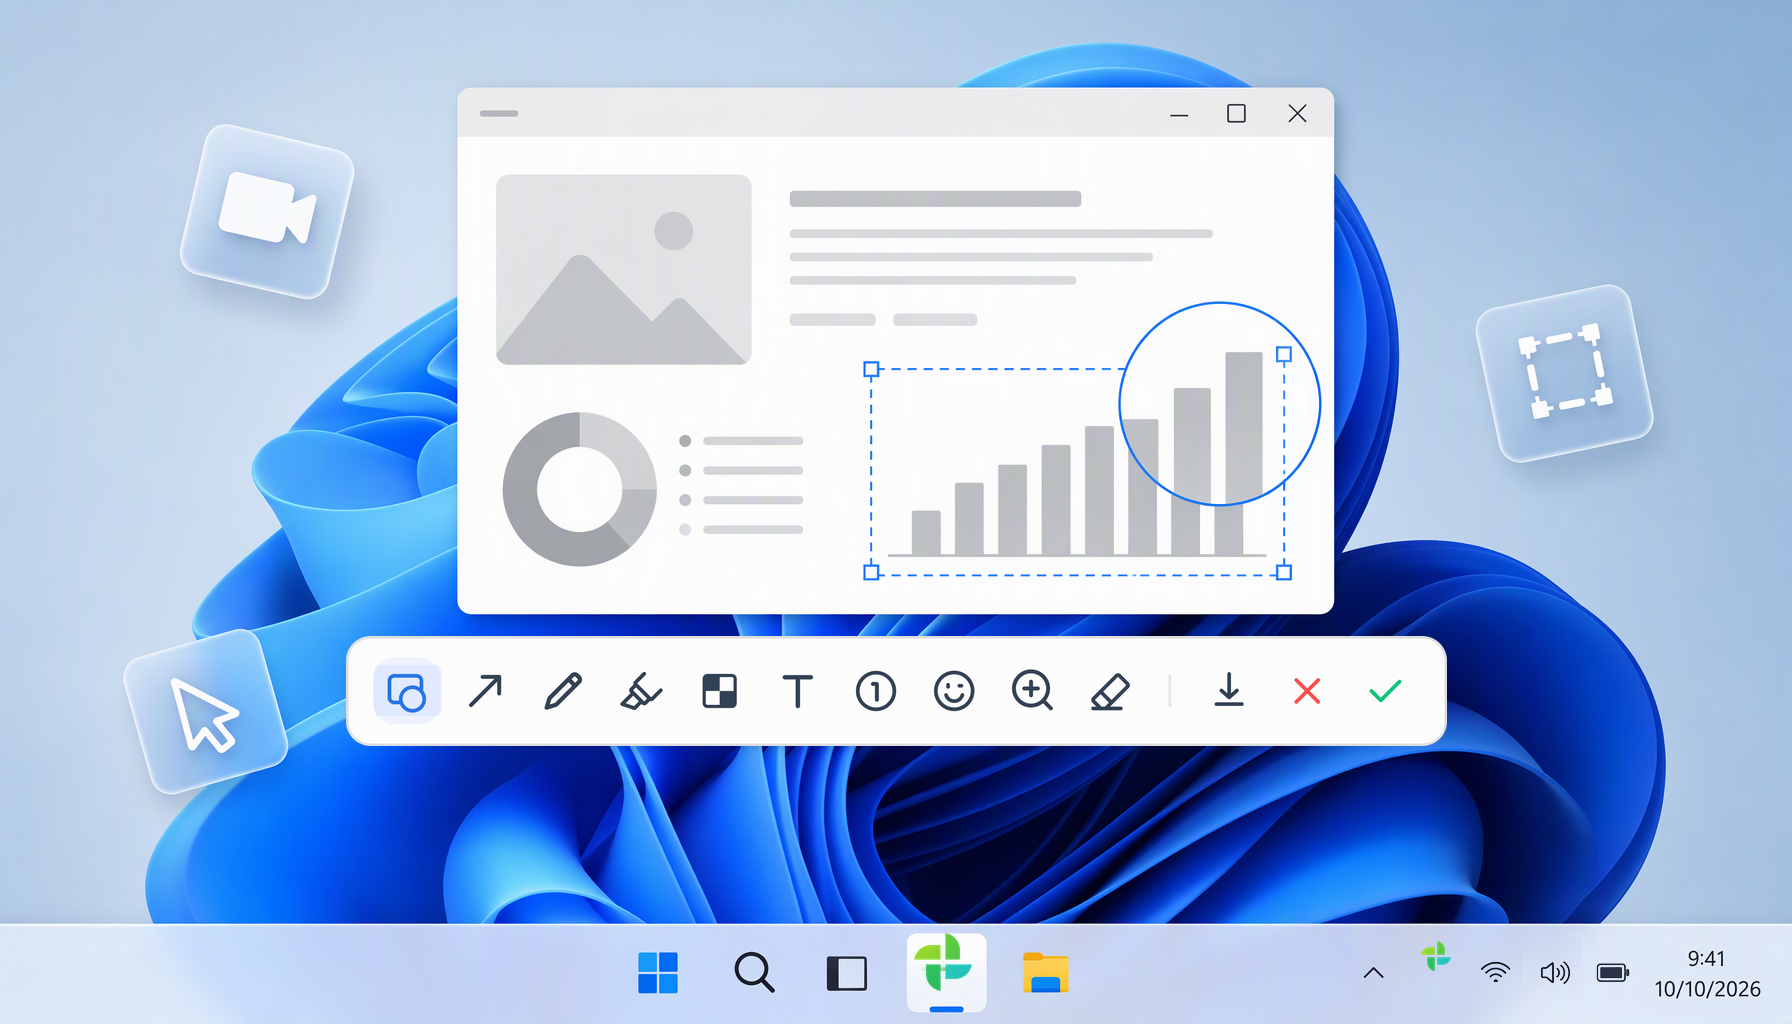
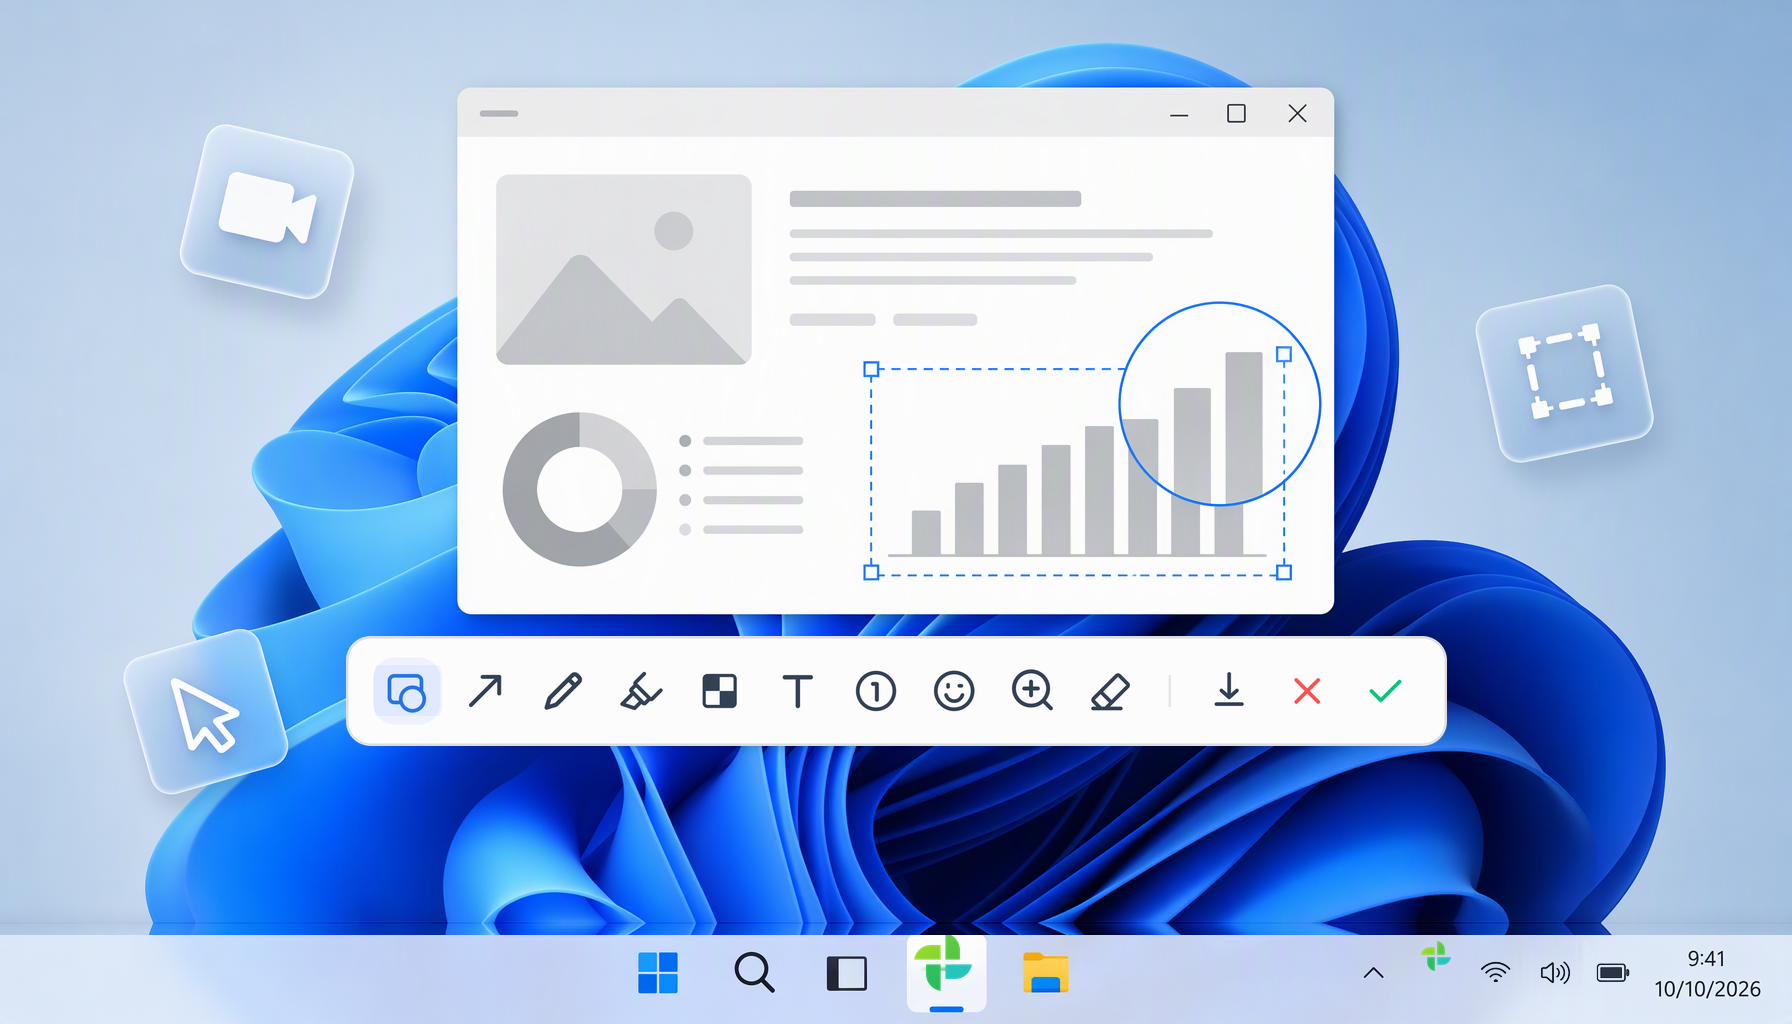
fix(home): give the hero one taskbar and no seam above it
The strip the hero lays over the screen carried a lead-in band that did not
match the wallpaper above it, so the boundary read as a hard line. The strip is
now the taskbar alone - 89/1024 of the screen height, flush with the bottom
edge - and the five renders put wallpaper where their own taskbar's top edge
used to be (a soft mirror of the rows above), so nothing of theirs peeks past
the strip. That also restores the taskbar's own proportions: the icons and the
clock sit at the size the source render has them.

The strip asset itself was missing from the tree the previous commit pointed
at, so a clean checkout could not build.

build: 109 pages.

Changed region(s): [[0.0, 0.875, 1.0, 0.9375]]

diff --git a/src/assets/styles/v3-home.css b/src/assets/styles/v3-home.css
@@ -843,10 +843,9 @@
   height: 100%;
 }
 
-/* The taskbar the hero lays over every shot. The renders no longer carry one —
-   their bottom band is wallpaper again — so this strip is the only taskbar on
-   screen: 89/1024 of the screen height, flush with its bottom edge, drawn at
-   the source's own size. */
+/* The taskbar the hero lays over every shot: 89/1024 of the screen, flush with
+   its bottom edge, drawn at the source's own size. The renders keep no taskbar
+   of their own — their bottom band is wallpaper — so nothing else shows. */
 .v3-tb {
   position: absolute;
   left: 0;
